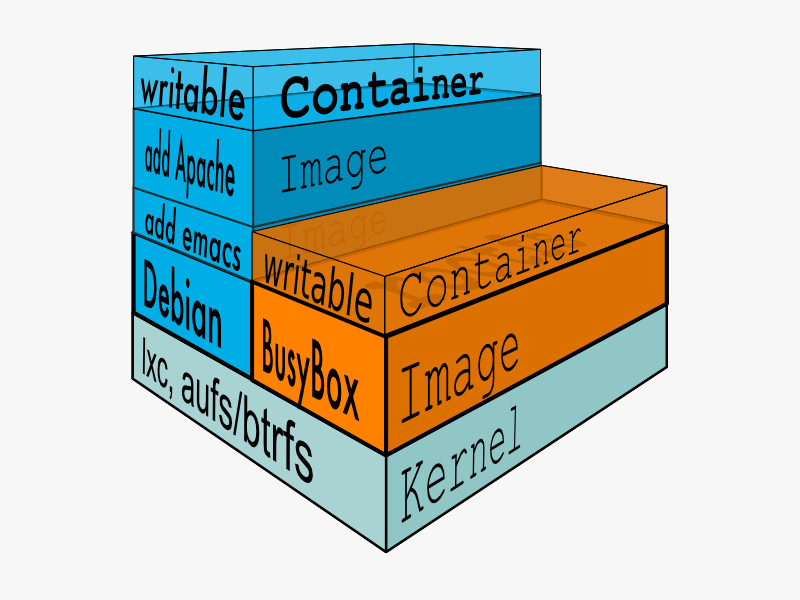
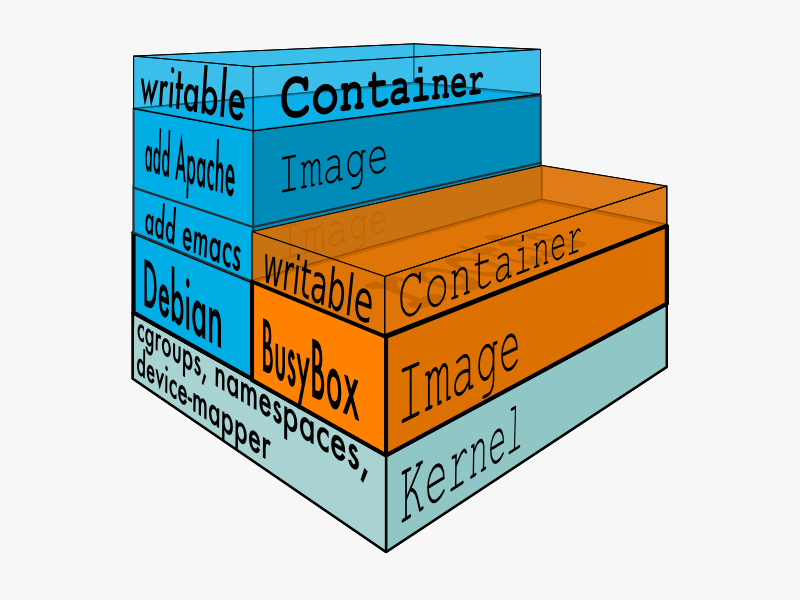
Fix #2115 Clean AUFS references. Also fixes some links to client libraries and mongo example.

Changed region(s): [[0.1562, 0.54, 0.4688, 0.81]]

diff --git a/storage/docs/sources/installation/ubuntulinux.rst b/storage/docs/sources/installation/ubuntulinux.rst
@@ -7,11 +7,6 @@
 Ubuntu Linux
 ============
 
-.. warning::
-
-   These instructions have changed for 0.6. If you are upgrading from
-   an earlier version, you will need to follow them again.
-
 .. include:: install_header.inc
 
 Right now, the officially supported distribution are:
@@ -19,10 +14,10 @@ Right now, the officially supported distribution are:
 - :ref:`ubuntu_precise`
 - :ref:`ubuntu_raring`
 
-Docker has the following dependencies
+Docker has the following dependencies (read more in :ref:`kernel`):
 
-* Linux kernel 3.8 (read more about :ref:`kernel`)
-* AUFS file system support (we are working on BTRFS support as an alternative)
+* Linux kernel 3.8 
+* Device-mapper module
 
 Please read :ref:`ufw`, if you plan to use `UFW (Uncomplicated
 Firewall) <https://help.ubuntu.com/community/UFW>`_
@@ -42,12 +37,12 @@ Dependencies
 
 Due to a bug in LXC, docker works best on the 3.8 kernel. Precise
 comes with a 3.2 kernel, so we need to upgrade it. The kernel you'll
-install when following these steps comes with AUFS built in. We also
-include the generic headers to enable packages that depend on them,
-like ZFS and the VirtualBox guest additions. If you didn't install the
-headers for your "precise" kernel, then you can skip these headers for
-the "raring" kernel. But it is safer to include them if you're not
-sure.
+install when following these steps comes with device-mapper built
+in. We also include the generic headers to enable packages that depend
+on them, like ZFS and the VirtualBox guest additions. If you didn't
+install the headers for your "precise" kernel, then you can skip these
+headers for the "raring" kernel. But it is safer to include them if
+you're not sure.
 
 
 .. code-block:: bash
@@ -63,8 +58,7 @@ sure.
 Installation
 ------------
 
-.. warning::
-
+.. versionchanged:: v0.6
    These instructions have changed for 0.6. If you are upgrading from
    an earlier version, you will need to follow them again.
 
@@ -106,13 +100,19 @@ Ubuntu Raring 13.04 (64 bit)
 Dependencies
 ------------
 
-**AUFS filesystem support**
+.. versionchanged:: v0.7
+   Starting in 0.7 you no longer need to add support for AUFS.
+   We now use the device-mapper module instead, and this module
+   is included with kernels since kernel version 2.6
 
-Ubuntu Raring already comes with the 3.8 kernel, so we don't need to install it. However, not all systems
-have AUFS filesystem support enabled, so we need to install it.
+Ubuntu Raring already comes with the 3.8 kernel, so we don't need to
+install it. However, not all systems have AUFS filesystem support
+enabled, so if you're on a Docker version before 0.7, then we need to
+install it.
 
 .. code-block:: bash
 
+   # Only required for versions before v0.7
    sudo apt-get update
    sudo apt-get install linux-image-extra-`uname -r`
 
@@ -122,8 +122,9 @@ Installation
 
 Docker is available as a Debian package, which makes installation easy.
 
-*Please note that these instructions have changed for 0.6. If you are upgrading from an earlier version, you will need
-to follow them again.*
+*Please note that these instructions have changed for 0.6. If you are
+upgrading from an earlier version, you will need to follow them
+again.*
 
 .. code-block:: bash
 
@@ -160,8 +161,8 @@ Verify it worked
 Docker and UFW
 ^^^^^^^^^^^^^^
 
-Docker uses a bridge to manage containers networking, by default UFW
-drop all `forwarding`, a first step is to enable forwarding:
+Docker uses a bridge to manage container networking, and by default
+UFW drops all `forwarding`. A first step is to enable forwarding:
 
 .. code-block:: bash
 
@@ -178,12 +179,4 @@ Then reload UFW:
 
    sudo ufw reload
 
-
-UFW's default set of rules denied all `incoming`, so if you want to be
-able to reach your containers from another host, you should allow
-incoming connections on the docker port (default 4243):
-
-.. code-block:: bash
-
-   sudo ufw allow 4243/tcp
 

diff --git a/storage/docs/sources/installation/kernel.rst b/storage/docs/sources/installation/kernel.rst
@@ -11,7 +11,7 @@ In short, Docker has the following kernel requirements:
 
 - Linux version 3.8 or above.
 
-- `AUFS support <http://aufs.sourceforge.net/>`_.
+- `Device Mapper support <http://www.sourceware.org/dm/>`_.
 
 - Cgroups and namespaces must be enabled.
 
@@ -48,15 +48,17 @@ detects something older than 3.8.
 See issue `#407 <https://github.com/dotcloud/docker/issues/407>`_ for details.
 
 
-AUFS support
-------------
+Device Mapper support
+---------------------
 
-Docker currently relies on AUFS, an unioning filesystem.
-While AUFS is included in the kernels built by the Debian and Ubuntu
-distributions, is not part of the standard kernel. This means that if
-you decide to roll your own kernel, you will have to patch your
-kernel tree to add AUFS. The process is documented on
-`AUFS webpage <http://aufs.sourceforge.net/>`_.
+The `Device Mapper <http://www.sourceware.org/dm/>`_ replaces the
+previous Docker dependency on AUFS and has been in the kernel since
+2.6.9, so the device-mapper module is more broadly-supported across
+Linux distributions. Docker uses `thin-provisioning
+<https://github.com/mirrors/linux/blob/master/Documentation/device-mapper/thin-provisioning.txt>`_
+to provide a :ref:`unioning file system <ufs_def>`. If you'd like to
+check for the presence of the device-mapper module, please see the
+`LVM-HOWTO. <http://www.tldp.org/HOWTO/LVM-HOWTO/builddmmod.html>`_
 
 
 Cgroups and namespaces
@@ -69,7 +71,7 @@ to run LXC containers. Note that 2.6.32 has some documented issues regarding
 network namespace setup and teardown; those issues are not a risk if you
 run containers in a private environment, but can lead to denial-of-service
 attacks if you want to run untrusted code in your containers. For more details,
-see `[LP#720095 <https://bugs.launchpad.net/ubuntu/+source/linux/+bug/720095>`_.
+see `LP#720095 <https://bugs.launchpad.net/ubuntu/+source/linux/+bug/720095>`_.
 
 Kernels 2.6.38, and every version since 3.2, have been deployed successfully
 to run containerized production workloads. Feature-wise, there is no huge

diff --git a/storage/docs/sources/api/remote_api_client_libraries.rst b/storage/docs/sources/api/remote_api_client_libraries.rst
@@ -3,14 +3,18 @@
 :keywords: API, Docker, index, registry, REST, documentation, clients, Python, Ruby, Javascript, Erlang, Go
 
 
+.. _remote_api_client_libs:
+
 ==================================
 Docker Remote API Client Libraries
 ==================================
 
 These libraries have not been tested by the Docker Maintainers for
-compatibility. Please file issues with the library owners.  If you
-find more library implementations, please list them in Docker doc bugs
-and we will add the libraries here.
+compatibility with the :doc:`docker_remote_api`. Please file issues
+with the library owners.  If you find more library implementations,
+please list them in `Docker doc issues
+<https://github.com/dotcloud/docker/issues?direction=desc&labels=doc&sort=updated&state=open>`_
+or make a pull request, and we will add the libraries here.
 
 +----------------------+----------------+--------------------------------------------+
 | Language/Framework   | Name           | Repository                                 |

diff --git a/storage/docs/sources/installation/gentoolinux.rst b/storage/docs/sources/installation/gentoolinux.rst
@@ -25,6 +25,11 @@ properly installing and using the overlay can be found in `the overlay README
 Installation
 ^^^^^^^^^^^^
 
+.. versionchanged:: v0.7
+   This section may need to be updated since Docker no longer depends
+   on AUFS. Please see :ref:`kernel`.
+
+
 The package should properly pull in all the necessary dependencies and prompt
 for all necessary kernel options.  For the most straightforward installation
 experience, use ``sys-kernel/aufs-sources`` as your kernel sources.  If you

diff --git a/storage/docs/sources/installation/archlinux.rst b/storage/docs/sources/installation/archlinux.rst
@@ -19,6 +19,10 @@ The lxc-docker-git package will build from the current master branch.
 Dependencies
 ------------
 
+.. versionchanged:: v0.7
+   This section may need to be updated since Docker no longer depends
+   on AUFS. Please see :ref:`kernel`.
+
 Docker depends on several packages which are specified as dependencies in
 either AUR package.
 

diff --git a/storage/docs/sources/api/docker_remote_api.rst b/storage/docs/sources/api/docker_remote_api.rst
@@ -22,6 +22,7 @@ Docker Remote API
 - Since API version 1.2, the auth configuration is now handled client
   side, so the client has to send the authConfig as POST in
   /images/(name)/push
+- Known client libraries may be found in :ref:`remote_api_client_libs`
 
 2. Versions
 ===========

diff --git a/storage/docs/sources/examples/hello_world.rst b/storage/docs/sources/examples/hello_world.rst
@@ -178,4 +178,4 @@ you could skip to any of the other examples:
 * :ref:`running_ssh_service`
 * :ref:`running_couchdb_service`
 * :ref:`postgresql_service`
-* :ref:`mongodb`
+* :ref:`mongodb_image`

diff --git a/storage/docs/sources/api/index.rst b/storage/docs/sources/api/index.rst
@@ -14,5 +14,5 @@ Your programs and scripts can access Docker's functionality via these interfaces
   registry_api
   index_api
   docker_remote_api
-
+  remote_api_client_libraries
 
